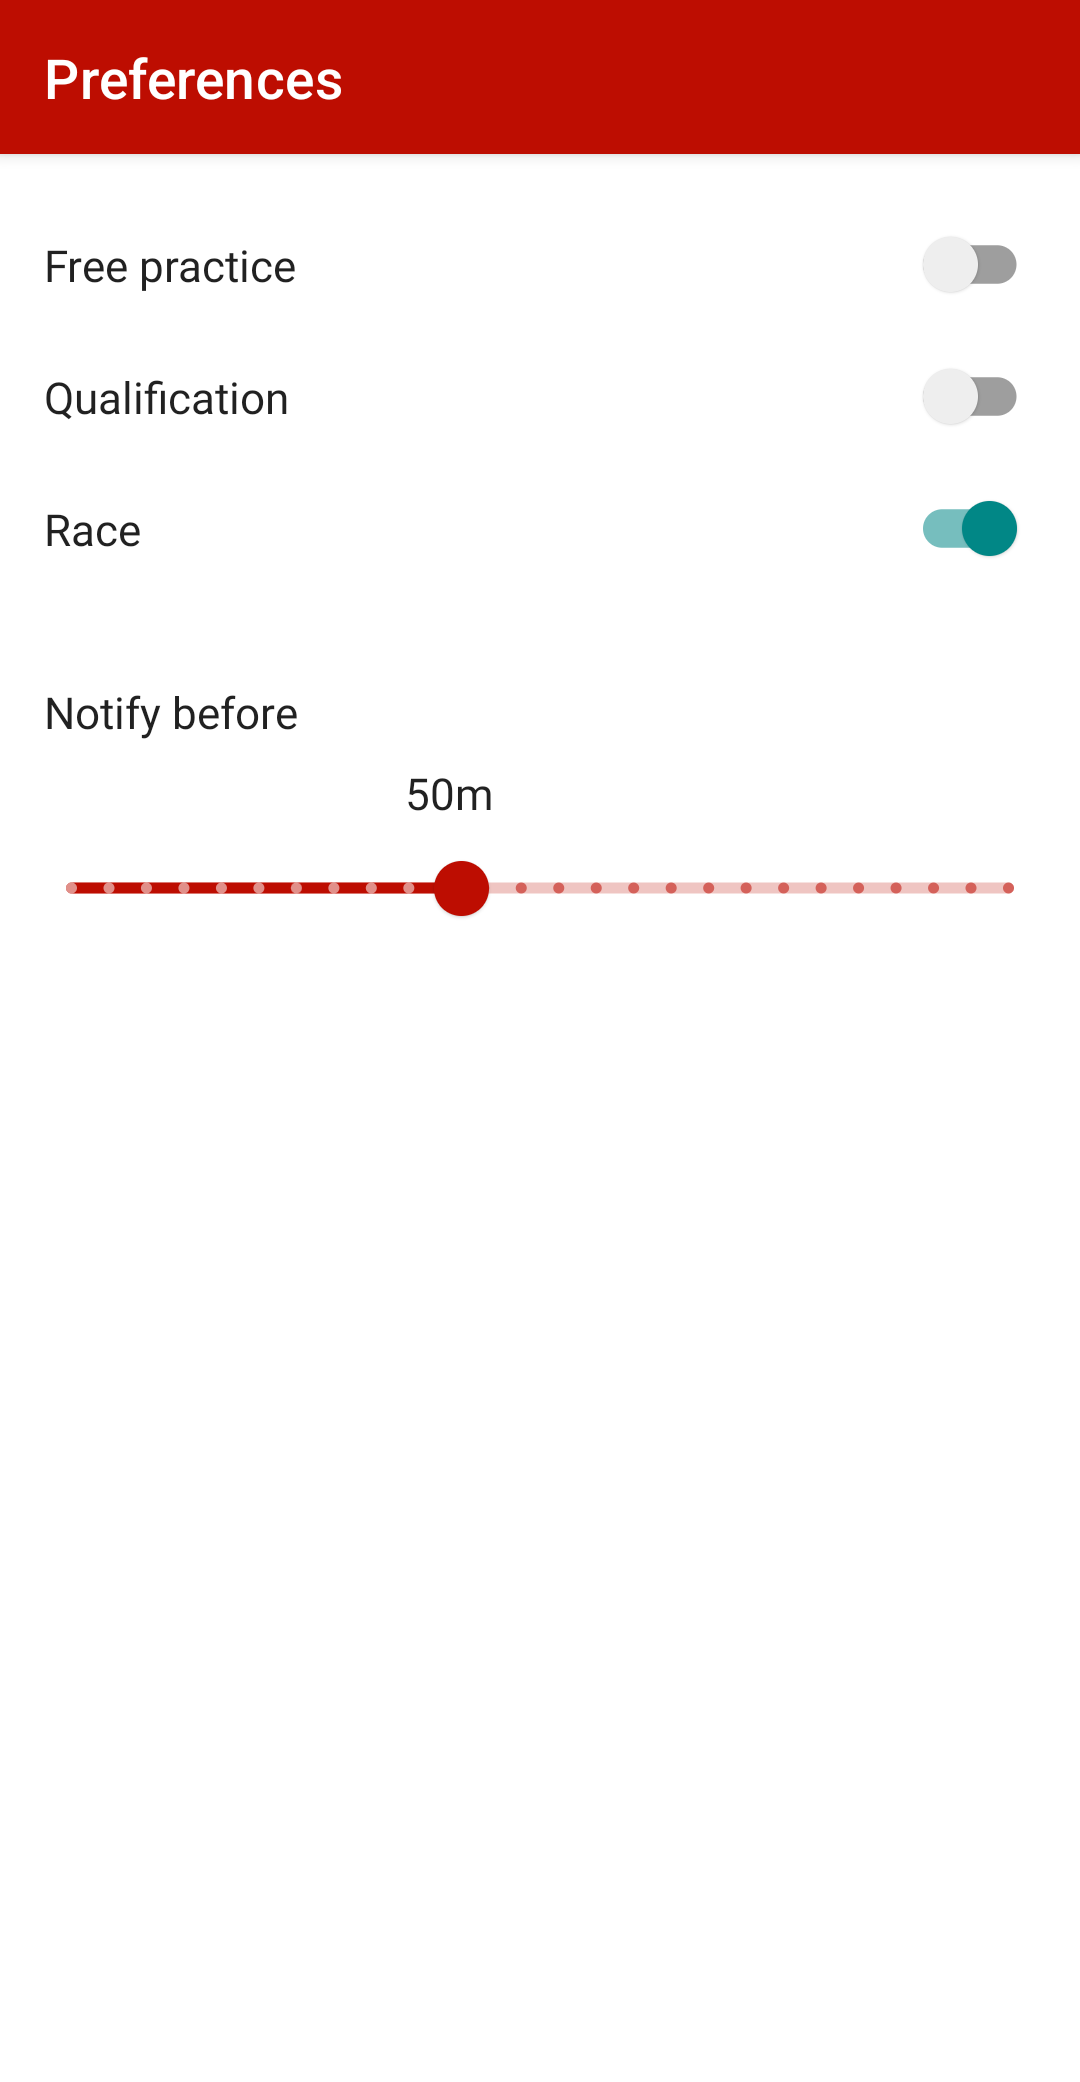
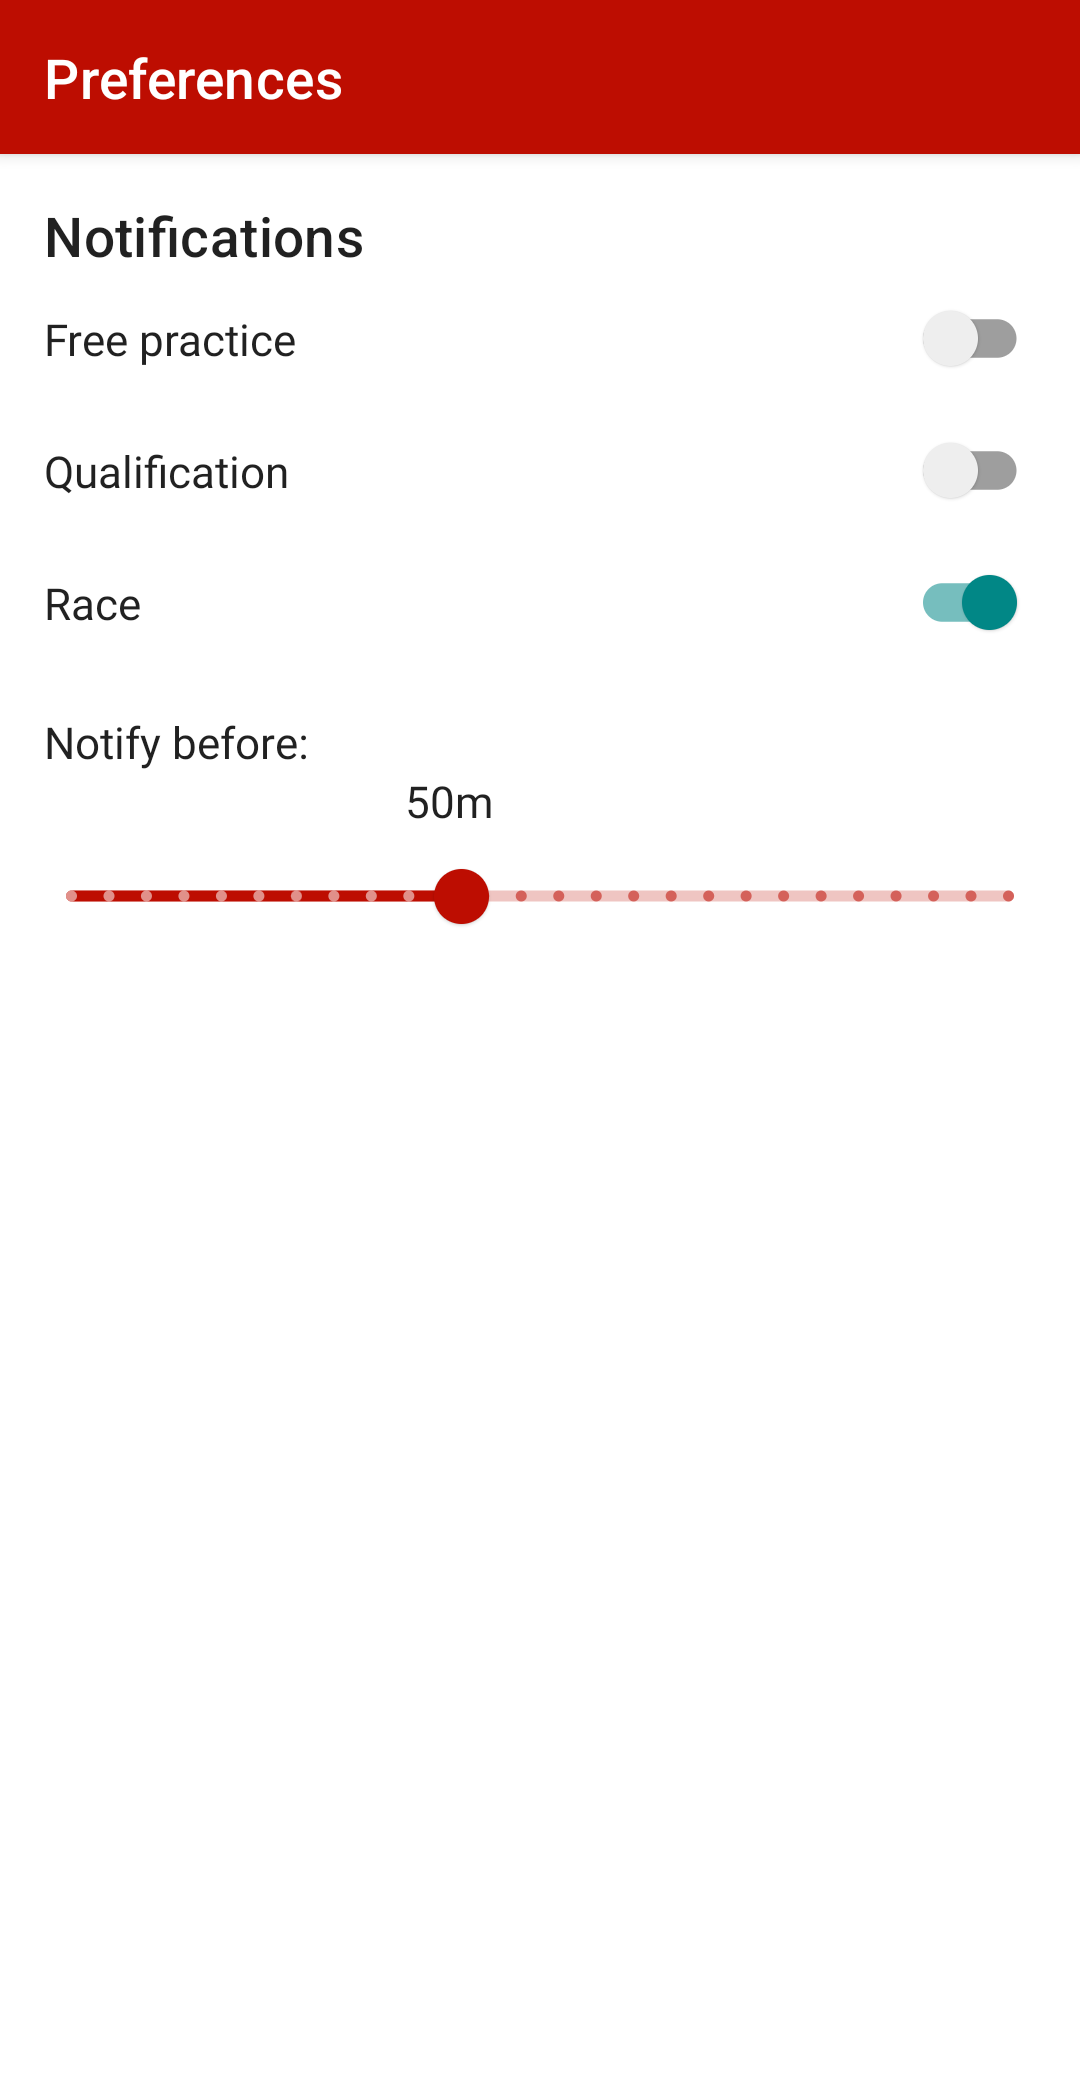
Add Notifications header

Changed region(s): [[0.0306, 0.0937, 0.3361, 0.3746], [0.0611, 0.3746, 0.9472, 0.4371], [0.8556, 0.0937, 0.9472, 0.3122]]

diff --git a/app/src/main/java/com/jventrib/formulainfo/ui/preferences/PreferencesScreen.kt b/app/src/main/java/com/jventrib/formulainfo/ui/preferences/PreferencesScreen.kt
@@ -9,6 +9,7 @@ import androidx.compose.foundation.layout.height
 import androidx.compose.foundation.layout.offset
 import androidx.compose.foundation.layout.padding
 import androidx.compose.material.ExperimentalMaterialApi
+import androidx.compose.material.MaterialTheme
 import androidx.compose.material.Scaffold
 import androidx.compose.material.Slider
 import androidx.compose.material.Switch
@@ -75,6 +76,7 @@ private fun PreferencesScreen(datastore: IStorePreference) {
                 .padding(it)
                 .padding(16.dp)
         ) {
+            Text("Notifications", style = MaterialTheme.typography.h6)
             PreferenceSwitch(
                 datastore,
                 scope,
@@ -84,7 +86,7 @@ private fun PreferencesScreen(datastore: IStorePreference) {
             )
             PreferenceSwitch(datastore, scope, "Qualification", StorePreference.NOTIFY_QUAL, false)
             PreferenceSwitch(datastore, scope, "Race", StorePreference.NOTIFY_RACE, true)
-            Spacer(modifier = Modifier.height(32.dp))
+            Spacer(modifier = Modifier.height(16.dp))
 
             val notifyBeforePref =
                 datastore.getPreferenceItem(StorePreference.NOTIFY_BEFORE, 10f)
@@ -92,8 +94,8 @@ private fun PreferencesScreen(datastore: IStorePreference) {
             var tempValue by remember(notifyBeforePref) {
                 mutableStateOf(notifyBeforePref)
             }
-            Text(text = "Notify before")
-            Spacer(modifier = Modifier.height(8.dp))
+            Text(text = "Notify before:")
+            Spacer(modifier = Modifier.height(0.dp))
             Text(
                 text = tempValue.calcNotifyBefore().toDurationString(),
                 modifier = Modifier.offset(
